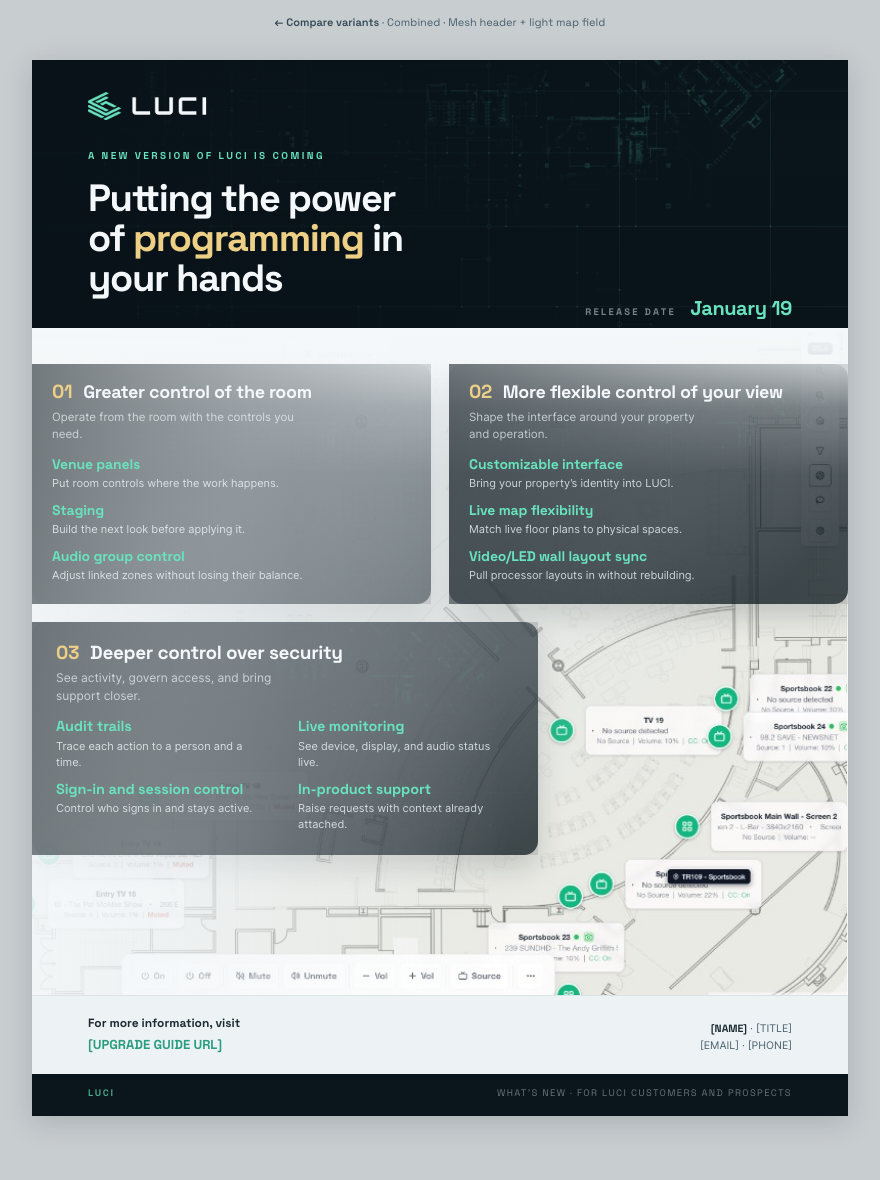
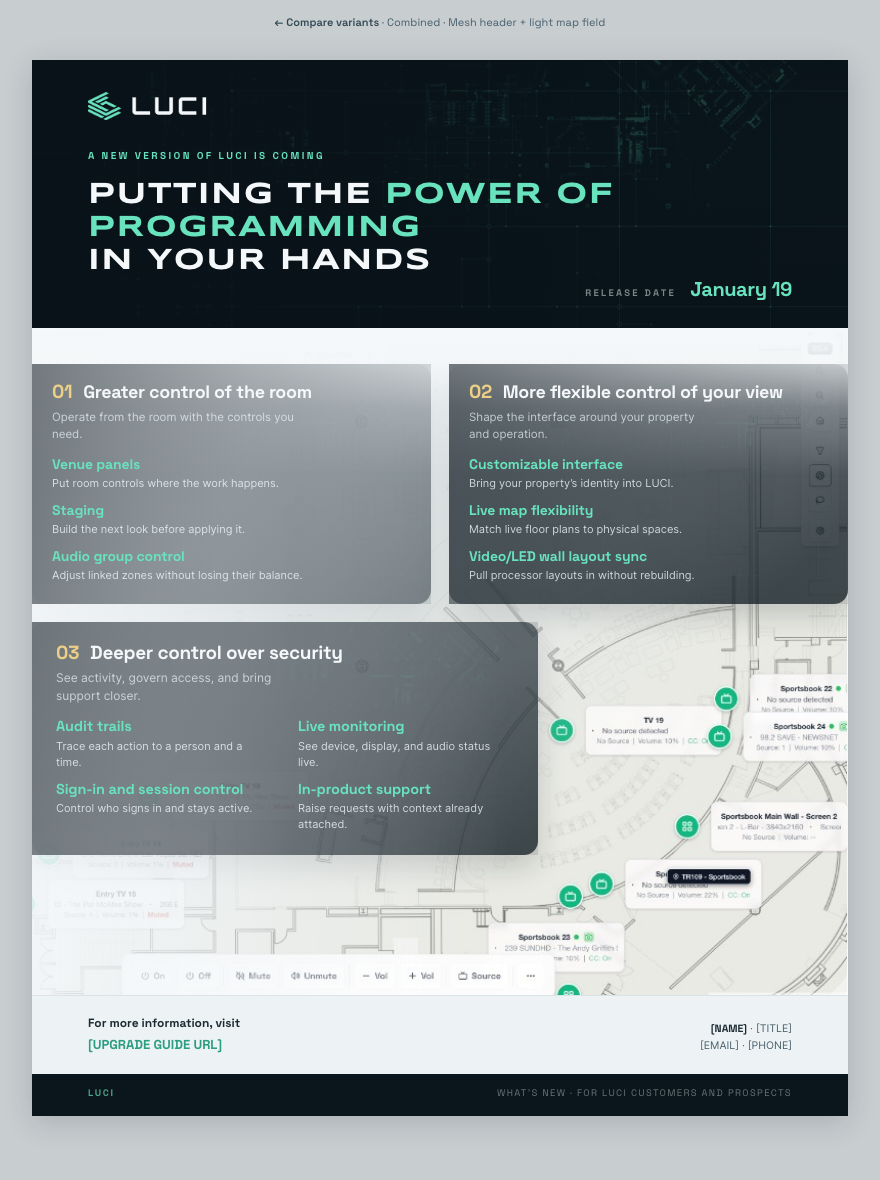
What's New one-pager: header to brochure standard — Syncopate, mint highlight
Header was Space Grotesk 38px with gold on 'programming' and a
narrow 14ch measure. Brochure standard is Syncopate all-caps,
mint <em>, full width.

Now: Syncopate 30px uppercase, letter-spacing 0.05em,
max-width 100% so it extends horizontally. <em> wraps
'power of programming' (not just 'programming') in mint.
Two lines via <br> so the display phrase carries.
Mesh/floorplan background and release date kept.

Changed region(s): [[0.092, 0.1525, 0.7057, 0.2746], [0.675, 0.2441, 0.9205, 0.2746]]

diff --git a/LUCI Systems Design System/ui_kits/sales/new-luci-whats-new-onepager-flow-c.html b/LUCI Systems Design System/ui_kits/sales/new-luci-whats-new-onepager-flow-c.html
@@ -16,6 +16,7 @@
   --ink:#354F5C;--ink-strong:#1C2B33;
   --font:'Space Grotesk','Trebuchet MS',sans-serif;
   --font-body:'Inter','Space Grotesk','Trebuchet MS',sans-serif;
+  --display:'Syncopate','Arial Black',sans-serif;
   --pad:56px;
 }
 html{-webkit-font-smoothing:antialiased;text-rendering:optimizeLegibility}
@@ -48,9 +49,9 @@ body{font-family:var(--font-body);background:#c8cdd0;color:var(--ink);font-size:
 .mast__logo{display:block;height:28px;width:121px;object-fit:contain}
 .mast__announce{margin-top:28px;font-family:var(--font);font-weight:700;font-size:10px;
   letter-spacing:0.24em;text-transform:uppercase;color:var(--mint)}
-.mast__theme{margin-top:14px;font-family:var(--font);font-weight:700;font-size:38px;
-  line-height:1.06;letter-spacing:-0.035em;color:var(--off-white);max-width:14ch}
-.mast__theme em{font-style:normal;color:var(--gold)}
+.mast__theme{margin-top:14px;font-family:var(--display);font-weight:700;font-size:30px;
+  line-height:1.1;letter-spacing:0.05em;text-transform:uppercase;color:var(--off-white);max-width:100%}
+.mast__theme em{font-style:normal;color:var(--mint)}
 .mast__base{margin-top:auto;display:flex;justify-content:flex-end;align-items:baseline;gap:14px}
 .mast__date-label{font-family:var(--font);font-weight:700;font-size:9.5px;
   letter-spacing:0.24em;text-transform:uppercase;color:rgba(235,245,248,0.5)}
@@ -162,7 +163,7 @@ body{font-family:var(--font-body);background:#c8cdd0;color:var(--ink);font-size:
       <div class="mast__inner">
         <img class="mast__logo" src="assets/logos/luci-wordmark-white-320.png?v=7" alt="LUCI Systems" width="121" height="28">
         <p class="mast__announce">A new version of LUCI is coming</p>
-        <h1 class="mast__theme">Putting the power of <em>programming</em> in your hands</h1>
+        <h1 class="mast__theme">Putting the <em>power of programming</em><br>in your hands</h1>
         <p class="mast__base">
           <span class="mast__date-label">Release date</span>
           <span class="mast__date-value">January 19</span>
